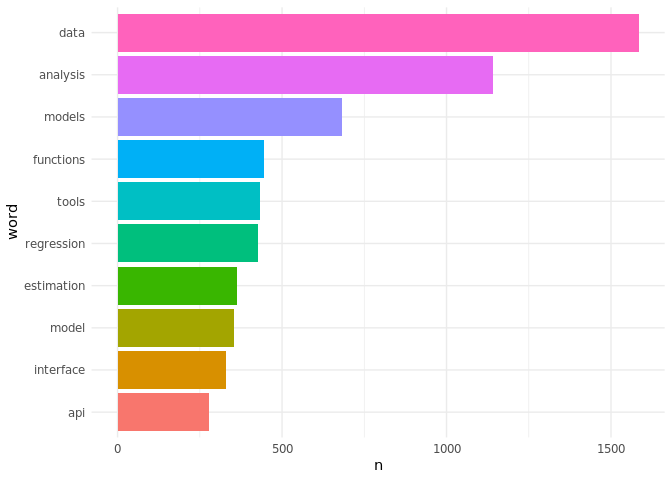
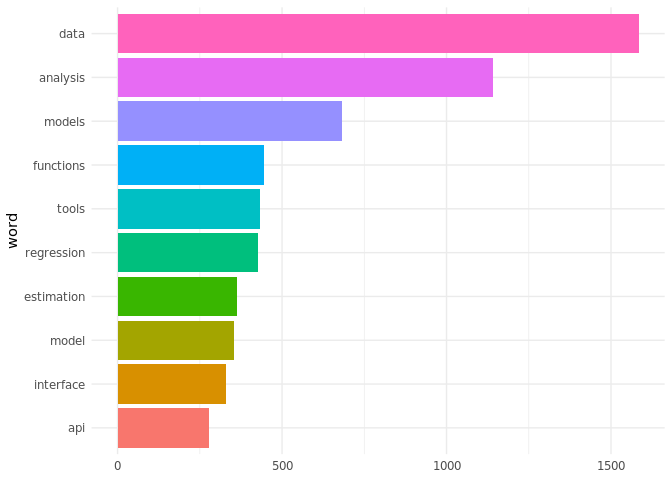
removed axis.x title

diff --git a/README.md b/README.md
@@ -45,12 +45,7 @@ glimpse(df_cran)
 ``` r
 df_cran %>%
   get_top_words(10) %>%
-  mutate(word=word%>%fct_inorder%>%fct_rev) %>%
-  ggplot(aes(word,n)) +
-  geom_col(aes(fill=word)) +
-  coord_flip() +
-  theme_minimal() +
-  theme(legend.position="none")
+  plot_top_words
 ```
 
 ![](README_files/figure-markdown_github/unnamed-chunk-4-1.png)
